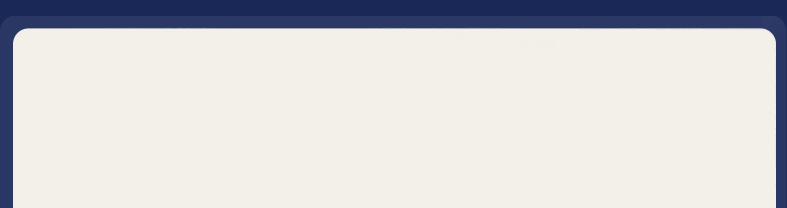
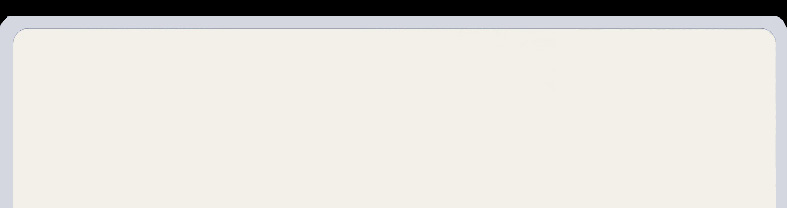
website prettyfication

Changed region(s): [[0.0, 0.0, 1.0, 1.0]]

diff --git a/website/style.css b/website/style.css
@@ -1,6 +1,6 @@
 body
 {
-background:url(images/bg.jpg) repeat-x top #1a2858;
+background:#000;
 padding:0;
 font-family:Arial, Helvetica, sans-serif;
 font-size:12px;
